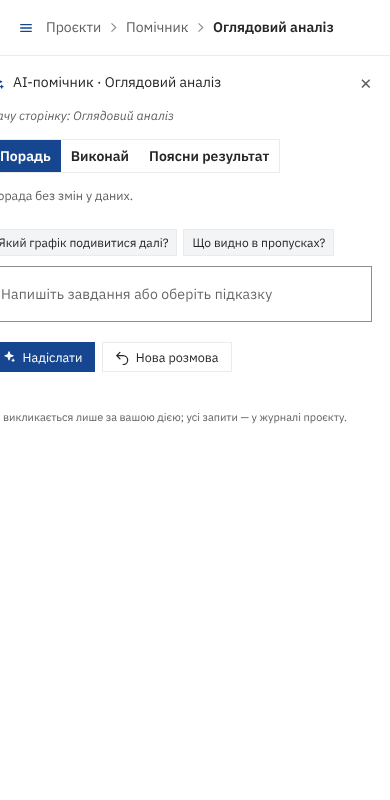
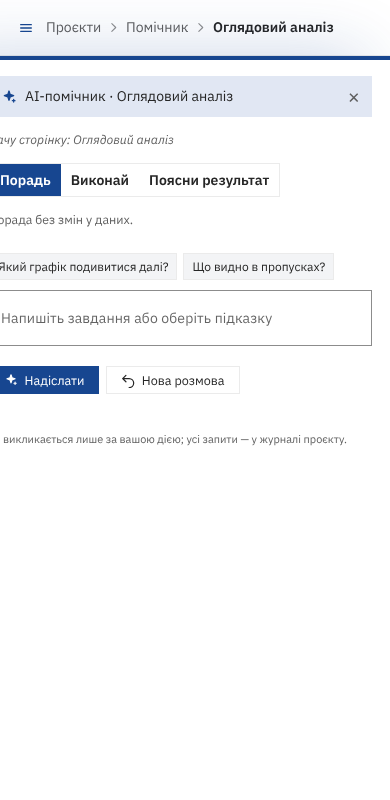
Add AI shortcuts next to results, highlight the open assistant, plan tomorrow
History 076, D-83: one-click AI actions on block pages, shadowed assistant
panel with tinted header, stage-by-stage AI pass and plan for 2026-10-12.

Claude-Session: https://claude.ai/code/session_018Cp4iyqeTJ5wJaFhLKjUnp

Changed region(s): [[0.0, 0.0625, 1.0, 0.5625], [0.6462, 0.5, 0.8923, 0.5625], [0.9231, 0.4062, 0.9538, 0.4375]]

diff --git a/src/data_story/assets/style.css b/src/data_story/assets/style.css
@@ -470,3 +470,13 @@ html, body { background:#fff; color:var(--ink); font-family:var(--font); font-si
 .assistant-msg.assistant { border-left:3px solid var(--primary); }
 .assistant-chip.answer { border-color:var(--primary); background:#fff; color:var(--primary); }
 .assistant-where { font-style:italic; }
+.ai-shortcut { color:var(--primary); border-color:transparent; margin:2px 0 6px; }
+.ai-shortcut:hover { border-color:var(--primary); }
+.ai-shortcut .ico { color:var(--primary); }
+/* D-83: the open assistant must read as a separate tool, not part of the page — the only
+   deliberate exception to the no-shadow dashboard style (D-19). */
+.q-drawer--right:has(.assistant-drawer) { box-shadow:-28px 0 64px rgba(23,70,144,.22), -2px 0 0 var(--primary) !important; }
+.assistant-drawer { border-top:4px solid var(--primary); }
+.assistant-head { background:var(--band); padding:10px 12px; box-sizing:border-box; }
+.assistant-drawer > * { max-width:100%; box-sizing:border-box; }
+.assistant-msg { overflow-wrap:anywhere; box-sizing:border-box; }

diff --git a/tools/assistant_ui_smoke.py b/tools/assistant_ui_smoke.py
@@ -68,6 +68,8 @@ with sync_playwright() as pw:
     page.get_by_role("button", name="Нова розмова").click()
     page.wait_for_timeout(300)
     ok("new conversation clears thread", page.locator(".assistant-msg").count() == 0)
+    shadow = page.evaluate("getComputedStyle(document.querySelector('.q-drawer--right')).boxShadow")
+    ok("open panel stands out with a shadow", shadow not in ("", "none"))
     page.screenshot(path=str(SHOTS / "open.png"))
     page.keyboard.press("Escape")
     page.wait_for_timeout(500)
@@ -75,6 +77,16 @@ with sync_playwright() as pw:
     with httpx.Client(base_url=BASE) as api:
         events = api.get(f"/api/projects/{project}/events").json()["data"]
         ok("request logged", any(e["operation"] == "assistant.asked" for e in events))
+    page.goto(f"{BASE}/?project={project}")
+    page.get_by_role("button", name="З чого почати аналіз?").click()
+    page.locator(".assistant-drawer").get_by_text(
+        "Ключ OpenAI не знайдено у файлі .env", exact=False
+    ).wait_for(timeout=20000)
+    ok(
+        "page shortcut opens panel and sends prepared request",
+        page.locator(".assistant-msg.user").inner_text() == "З чого почати аналіз цього проєкту?",
+    )
+    page.screenshot(path=str(SHOTS / "shortcut.png"))
     page.goto(f"{BASE}/settings/ai")
     page.wait_for_timeout(800)
     ok(

diff --git a/src/data_story/assistant_panel.py b/src/data_story/assistant_panel.py
@@ -174,6 +174,14 @@ def assistant_panel(
         async def send_typed() -> None:
             await send()
 
+        async def open_with(mode_value: str, text: str) -> None:
+            """Open the panel from a shortcut in the page and run the prepared request."""
+            drawer.show()
+            mode.set_value(mode_value)
+            await send(text)
+
+        ui.context.client.assistant_open = open_with
+
         with ui.row().classes("gap-2"):
             ref["send"] = button("Надіслати", send_typed, "spark", "primary")
             button("Нова розмова", restart, "undo")
@@ -192,3 +200,18 @@ def assistant_panel(
         on_key=lambda e: drawer.hide() if e.key == "Escape" and e.action.keydown else None,
         ignore=[],
     )
+
+
+def ai_shortcut(label: str, mode: str, question: str) -> None:
+    """A small «AI» link next to a result; does nothing visible without the panel."""
+    opener = getattr(ui.context.client, "assistant_open", None)
+    if opener is None:
+        return
+    with (
+        ui.element("button")
+        .classes("btn ghost small ai-shortcut")
+        .props(f'type="button" title="AI-помічник: {question}"')
+        .on("click", lambda: opener(mode, question))
+    ):
+        icon("spark")
+        ui.label(label)

diff --git a/src/data_story/screen.py b/src/data_story/screen.py
@@ -592,6 +592,9 @@ def project_view(service: ProjectService, active: ProjectView) -> None:
         active.name,
         active.purpose or "Мету дослідження ще не зазначено.",
     )
+    from .assistant_panel import ai_shortcut
+
+    ai_shortcut("З чого почати аналіз?", "advise", "З чого почати аналіз цього проєкту?")
     events_result = service.events(str(active.id))
     events: list[EventView] = events_result.data if isinstance(events_result, Success) else []
     opened = sum(1 for e in events if e.operation == "project.opened")
@@ -1042,6 +1045,9 @@ def eda_screen(
         "Один набір, один інструмент: статистика, пропуски, розподіли й зв’язки. "
         "Розрахунки локальні, без AI.",
     )
+    from .assistant_panel import ai_shortcut
+
+    ai_shortcut("Що видно в даних?", "explain", "Що важливого видно в цьому наборі даних?")
     ui.toggle(
         EDA_TOOLS,
         value=tool,

diff --git a/src/data_story/validation_screen.py b/src/data_story/validation_screen.py
@@ -4,6 +4,7 @@ from functools import partial
 
 from nicegui import run, ui
 
+from .assistant_panel import ai_shortcut
 from .contracts import Failure, ProjectView
 from .model_check import CHARTS
 from .model_screen import panel, precise
@@ -105,6 +106,12 @@ def validation_screen(service: ProjectService, active: ProjectView, model_id: st
                     ).classes("model-note mono-wrap")
             with ui.element("section").classes("model-panel"):
                 ui.label("Як читати").classes("panel-title")
+                ai_shortcut(
+                    "Поясни цей графік",
+                    "explain",
+                    f"Поясни графік «{view['title']}» цієї моделі: що на ньому видно "
+                    "й чи є ознаки проблем?",
+                )
                 ui.label(view["hint"]).classes("model-explain")
                 for note in view["notes"] + view["warnings"]:
                     with ui.element("div").classes("model-warning"):

diff --git a/src/data_story/model_screen.py b/src/data_story/model_screen.py
@@ -4,6 +4,7 @@ from functools import partial
 
 from nicegui import run, ui
 
+from .assistant_panel import ai_shortcut
 from .contracts import Failure, ProjectView
 from .model import explain
 from .screen import button, error_line, kpi, number, page_header
@@ -88,6 +89,13 @@ def model_result(item: dict, project_id: str | None = None) -> None:
             "check",
             "small",
         )
+        with ui.row().classes("gap-1"):
+            ai_shortcut(
+                "Поясни результат",
+                "explain",
+                "Поясни результат цієї моделі: показники, значущі коефіцієнти й обмеження.",
+            )
+            ai_shortcut("Що робити далі?", "advise", "Що зробити далі з цією моделлю?")
     with ui.element("div").classes("grid grid-4 model-kpis"):
         kpi(
             "regression",

diff --git a/src/data_story/training_screen.py b/src/data_story/training_screen.py
@@ -5,6 +5,7 @@ from functools import partial
 
 from nicegui import run, ui
 
+from .assistant_panel import ai_shortcut
 from .contracts import Failure, ProjectView
 from .screen import button, error_line, page_header
 from .service import ProjectService
@@ -17,6 +18,11 @@ def training_screen(service: ProjectService, active: ProjectView, dataset_id: st
         "methods",
         "Вибірки для регресії",
         "Оберіть ціль, ознаки й перетворення. Підготовка запускається лише за кнопкою.",
+    )
+    ai_shortcut(
+        "Порадь ціль і ознаки",
+        "advise",
+        "Які ціль і ознаки обрати для регресії в цьому наборі й чому?",
     )
     listing = service.list_datasets(project_id)
     if isinstance(listing, Failure):

diff --git a/src/data_story/preparation_screen.py b/src/data_story/preparation_screen.py
@@ -4,6 +4,7 @@ from functools import partial
 
 from nicegui import ui
 
+from .assistant_panel import ai_shortcut
 from .contracts import Failure, ProjectView, Success
 from .preparation import MissingRule
 from .screen import button, error_line, page_header
@@ -21,6 +22,9 @@ def preparation_screen(
         "methods",
         "Пропуски",
         "Оберіть операції, перегляньте результат і підтвердьте збереження плану.",
+    )
+    ai_shortcut(
+        "Порадь, як обробити пропуски", "advise", "Як краще обробити пропуски в цьому наборі?"
     )
     ui.label(
         "Оригінальні дані не змінюються. Зберігаємо план операцій, а не новий набір даних."

diff --git a/planning/status.md b/planning/status.md
@@ -1,6 +1,6 @@
 # Поточний стан
 
-Оновлено: 2026-10-11 (Europe/Kiev), історія 073. Документ описує лише актуальний стан; хронологія та подробиці кожної ітерації — у [`PROJECT_HISTORY.md`](../PROJECT_HISTORY.md), коротка точка входу — [`HANDOFF.md`](../HANDOFF.md).
+Оновлено: 2026-10-11 (Europe/Kiev), історія 076. Документ описує лише актуальний стан; хронологія та подробиці кожної ітерації — у [`PROJECT_HISTORY.md`](../PROJECT_HISTORY.md), коротка точка входу — [`HANDOFF.md`](../HANDOFF.md).
 
 Data Story — локальний MVP на Python 3.13: NiceGUI + FastAPI в одному процесі, SQLite (схема v14), pandas/openpyxl. Без входу й облікових записів (D-16).
 
@@ -59,10 +59,11 @@ Responses API через httpx, модель за задачею, перевір
 
 ## AI-помічник (073, D-80)
 
-Кнопка «AI» в куті й бічна панель на сторінках блоків проєкту: «Порадь / Виконай / Поясни результат», контекст блоку, правила бази знань, інструменти, журнал. Реальна перевірка з OpenAI — після введення ключа. **Наступний етап (09) розпочинаємо 2026-10-12.**
+Кнопка «AI» в куті й бічна панель на сторінках блоків проєкту: «Порадь / Виконай / Поясни результат», контекст блоку, правила бази знань, інструменти, журнал. Реальна перевірка з OpenAI — після введення ключа. **Наступний етап (09) розпочинаємо 2026-10-12 з [ai-stages-pass.md](ai-stages-pass.md).** 076: швидкі дії AI біля результатів, виділена панель.
 
 ## Останні перевірки
 
+- Ітерація 076: **206/206 тестів**, ruff/формат, mypy; браузер помічника **17/17** (швидка дія відкриває панель і надсилає запит, тінь панелі), загальний 68/68, модель 38/38, перевірка 18/18.
 - Ітерація 073: хмара: **204/204 тести** (помічник — імітація OpenAI), ruff/формат, mypy; браузер помічника **12/12**, загальний 68/68, модель 38/38, перевірка 18/18. Реальні виклики й Windows `Check.cmd` не перевіряли.
 - Ітерація 072: хмара: **198/198 тестів** (повтори, паузи, Retry-After, перехід рівнів, 3 рівні, вичерпання, зупинка на 401 — імітація), ruff/формат, mypy; браузер «Моделі AI» **18/18**. Реальні виклики й Windows `Check.cmd` не перевіряли.
 - Ітерація 071: хмара: **192/192 тести** (OpenAI — імітація транспорту), ruff/формат, mypy; браузер «Моделі AI» **15/15** (без ключа нічого не надсилається). Реальний доступ до OpenAI і Windows `Check.cmd` не перевіряли.
@@ -105,7 +106,7 @@ Responses API через httpx, модель за задачею, перевір
 
 **Далі за планом:** автор перевіряє реальний доступ (ключ у `.env` → «Перевірити доступ» / «Пробний запит»); потім прохід по етапах для включення AI (D-75). AI-поради — після OpenAI 08; моделі та зберігання ключа ще не обрано.
 
-**Як працювати:** D-66/D-67 дозволяють виконувати цілі погоджені блоки без зупинки на кожній дрібній задачі. Пріоритет — пройти план; 2–3 дні є орієнтиром автора, не гарантією агента. Зміни перевіряти, фіксувати й оновлювати документи; суттєві нові продуктові рішення уточнювати. Пуш лише з дозволу. Наступний запис — 076. D-81: помічник знає сторінку й ставить уточнювальні питання. D-78: логотип ~60%, великі відступи, меню зверху. D-75: після OpenAI — прохід по всіх етапах для AI; D-76: ключ у `.env`. D-71: відповідати й питати коротко.
+**Як працювати:** D-66/D-67 дозволяють виконувати цілі погоджені блоки без зупинки на кожній дрібній задачі. Пріоритет — пройти план; 2–3 дні є орієнтиром автора, не гарантією агента. Зміни перевіряти, фіксувати й оновлювати документи; суттєві нові продуктові рішення уточнювати. Пуш лише з дозволу. Наступний запис — 077. D-81: помічник знає сторінку й ставить уточнювальні питання. D-78: логотип ~60%, великі відступи, меню зверху. D-75: після OpenAI — прохід по всіх етапах для AI; D-76: ключ у `.env`. D-71: відповідати й питати коротко.
 
 **Git і середовище:** main, origin `https://github.com/kleban/ai-course-final-project.git`, перед 060 — 16 комітів попереду локального origin/main. Віддалений сервер не перевіряли. Тестовий сервер 8903 зупинено; робочий сервіс автора не чіпали.
 

diff --git a/planning/ai-stages-pass.md b/planning/ai-stages-pass.md
@@ -1,0 +1,26 @@
+# Прохід по етапах: де і як включаємо AI (D-75)
+
+Редакція 0.1, 2026-10-11 (Europe/Kiev), історія 076. Чернетка агента для старту етапу 09 **2026-10-12**: що вже вбудовано і що перевірити першим. Кожне включення — лише явна дія користувача (кнопка «AI» або швидка дія біля результату).
+
+| Етап / сторінка | Дія AI | Задача в «Моделі AI» | Стан на 2026-10-11 |
+| --- | --- | --- | --- |
+| Проєкт (огляд) | «З чого почати аналіз?» — Порадь | `next_steps` | Швидка дія є (076) |
+| Проєкт: опис | Чернетка опису з мети — Виконай | `project_description` | Заплановано: потрібен інструмент збереження опису з підтвердженням |
+| Дані: метадані | Чернетка опису полів із сирого опису — Виконай | `metadata_draft` | Заплановано: інструмент «запропонувати метадані» без автозбереження |
+| Оглядовий аналіз | «Що видно в даних?» — Поясни | `eda_explain` | Швидка дія є (076); у контекст ще не передаються числа статистики |
+| Оглядовий аналіз: графік | Перебудова графіка командою (текст/голос) — Виконай | `chart_command` | Заплановано (D-68): інструмент зміни параметрів графіка, потім голос |
+| Підготовка: пропуски | «Порадь, як обробити пропуски» — Порадь | `preparation_advice` | Швидка дія є (076); контекст — поля й типи, без частки пропусків |
+| Підготовка: вибірки | «Порадь ціль і ознаки» — Порадь | `model_advice` | Швидка дія є (076) |
+| Модель | «Поясни результат», «Що робити далі?»; «Навчи модель» — Виконай | `model_explain`, `model_advice` | Швидкі дії й інструмент навчання є (073–076) |
+| Перевірка моделі | «Поясни цей графік»; «Побудуй графік похибок» — Виконай | `validation_explain` | Швидка дія й інструмент `build_model_chart` є |
+| Висновки / Звіт | Чернетка висновків і звіту | `conclusions`, `report_draft` | Блоки ще не реалізовані (етап 10) |
+
+## План на 2026-10-12 (рекомендований порядок)
+
+1. Ключ у `.env` → «Перевірити доступ» → «Пробний запит»; записати фактичні моделі й токени.
+2. Реальна перевірка помічника на Melbourne: «Поясни результат» моделі, «Навчи модель» з уточнювальним питанням, «Поясни цей графік». Виправити формат function calling, якщо API відповість інакше.
+3. Додати в контекст оглядового аналізу й підготовки компактні числа (статистика полів, частка пропусків), щоб поради спиралися на факти.
+4. Інструменти «Виконай» для опису проєкту й метаданих — лише пропозиція з кнопкою «Застосувати».
+5. Перебудова графіка командою (D-68), потім голосове введення після перевірки uk-UA у браузері.
+
+Усі пункти — пропозиції агента; порядок погодити з автором на початку дня.

diff --git a/HANDOFF.md b/HANDOFF.md
@@ -24,7 +24,11 @@
 
 - **073 (D-80):** перший шматок етапу 09 — панель AI-помічника (кнопка «AI» в куті, закрита за замовчуванням), без реальної перевірки. **Наступний етап розпочинаємо 2026-10-12:** спершу ключ у `.env` → «Перевірити доступ», далі прохід по етапах (D-75).
 
+- **076 (D-83):** швидкі дії AI біля результатів на сторінках блоків; відкрита панель виділена тінню й кольоровою шапкою. **Почати 2026-10-12 з `planning/ai-stages-pass.md`** (ключ → перевірка доступу → реальна перевірка помічника).
+
 ## Перевірки
+
+076: 206/206 тестів, браузер помічника 17/17, загальний 68/68.
 
 073: **204/204 тести**, браузер помічника 12/12, загальний 68/68.
 
@@ -52,4 +56,4 @@
 
 `preparation*.py`, `prepared_datasets.py` — плани й незалежні набори; `training_data.py`/`training_store.py`/`training_screen.py` — вибірки; `model.py` — навчання й показники; `model_store.py` — збереження/журнал; `model_screen.py` — екран; `assistant_tools.py` — операції для AI; `service.py` — спільний API/UI.
 
-Runtime і tmp поза Git, всередині репозиторію. Наступний номер історії — **076**. D-81: помічник знає сторінку, веде розмову й ставить уточнювальні питання. D-78: логотип зменшено, меню завжди зверху. Правило D-71: короткі питання й відповіді (`AGENTS.md`). Гілка `main`, origin `https://github.com/kleban/ai-course-final-project.git`; коміти 063–073 локальні, не відправлені.
+Runtime і tmp поза Git, всередині репозиторію. Наступний номер історії — **077**. D-81: помічник знає сторінку, веде розмову й ставить уточнювальні питання. D-78: логотип зменшено, меню завжди зверху. Правило D-71: короткі питання й відповіді (`AGENTS.md`). Гілка `main`, origin `https://github.com/kleban/ai-course-final-project.git`; коміти 063–073 локальні, не відправлені.

diff --git a/planning/subsystem-09-assistant.md b/planning/subsystem-09-assistant.md
@@ -23,3 +23,9 @@
 - Помічник знає сторінку: блок, обраний набір (назва, розмір, поля з типами й ролями, стан метаданих), інструмент графіка, обрані вибірки чи модель. Панель показує «Бачу сторінку: …». Чужі набори в контекст не потрапляють.
 - Помічник веде розмову: коротка історія (до 10 реплік) передається з кожним запитом; кнопка «Нова розмова» її очищає.
 - Помічник ставить питання, а не лише виконує: інструмент `ask_user` (одне питання, 2–4 варіанти) доступний у всіх діях; правило — питати, коли завдання неоднозначне, бракує даних або дія змінить результати без підтвердження. Варіанти показуються кнопками; відповідь продовжує розмову. Подія журналу має стан `clarifying`.
+
+## Швидкі дії й виділення панелі (076, D-83)
+
+- Біля результатів — малі кнопки зі значком AI: «З чого почати аналіз?» (проєкт), «Що видно в даних?» (оглядовий аналіз), «Порадь, як обробити пропуски», «Порадь ціль і ознаки», «Поясни результат» і «Що робити далі?» (модель), «Поясни цей графік» (перевірка). Клік відкриває панель і одразу надсилає підготовлене завдання.
+- Відкрита панель виділяється широкою синьою тінню, лінією зліва, смугою зверху й кольоровою шапкою — виняток зі стилю без тіней лише для помічника.
+- Прохід по етапах і план на 2026-10-12 — [ai-stages-pass.md](ai-stages-pass.md).
